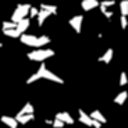
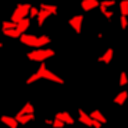
S2 망자 겉모습: 점검 반영 — 가름 셈을 셰이더 그대로(선형 찬 기운·읽히는 가림·주검), 바랜 살갗 색과 가림 경계, 땅 위 동작에서 섞일 때도 면 법선, 후드의 밝은 빨강 천은 어둡게

diff --git a/tools/dead_skin_split.py b/tools/dead_skin_split.py
@@ -1,20 +1,26 @@
-"""Does the dead's skin stay apart from the living's (decision 432)? Body by body, kind by kind.
+"""Does the dead's skin stay apart from the living's (decision 432)? Body by body, look by look.
 
-For each body the dead wear (dead_skin_mask.py SOURCES), the texels its skin mask holds are taken from its
-colour picture and coloured twice, as the shaders colour them under the same light:
+For each body the dead wear (dead_skin_mask.py SOURCES), its colour picture is coloured twice, as the
+shaders colour it under the same light:
   the living: the model grade only (dead_vat.gdshaderinc without WEATHERED, tint 0.5);
-  the dead:   worn_down's gone-off skin (SKIN_OFF by SKIN_GONE, the blotch at its middle), the grade, then
-              the kind's tint as the skin takes it (no brighter than 1).
-How far the skin has gone off is the kind's middle (dead_cast.gd TEAR, b) and its least. Blood, dirt and
-tears are left out (they are judged on the pictures). The values are read from the shader and scripts, so
-this follows them when they change.
+  the dead:   worn_down's gone-off skin (SKIN_OFF by SKIN_GONE, the blotch at its middle) by the skin mask
+              as the GPU reads it (128 x 128, linear filter, repeat, through SKIN_EDGE), the grade, then the look's tint: on the
+              skin no brighter than 1, on the clothes by cloth_state.
+The colours the shader declares source_color are made linear first, as the engine does. Counted: the
+texels the mask reads 0.5 or more at (before SKIN_EDGE). How far the skin has gone off is the kind's middle (dead_cast.gd
+TEAR, b) and its least. Blood, dirt and tears are left out (they are judged on the pictures). The values
+are read from the shader and scripts (a value not found stops the tool), so this follows them.
 
 Pass (coordinator, 10-31): (a) the dead's median saturation <= 0.6 x the living's; (b) the dead's median hue
 at least 20 degrees towards green of the living's and between 60 and 160 (living 0..40 -> dead 60..160).
-Checked: the dead (the crawlers and the corpses are the dead too). The other kinds are printed beside them:
-the newly risen are meant to be near the living, the layered take their cold blue, the frozen their frost.
+Checked: the dead standing and the dead lying (look "corpse", the dead's wear and tear); the crawlers
+are the dead too. The other kinds are printed beside them: the newly risen are meant to be near the
+living, the layered take their cold blue, the frozen their frost.
 
-  python -X utf8 -I tools/dead_skin_split.py <repo>
+--sat-floor S passes (a) also where the dead's saturation is at most S (a body whose living skin the grade
+already leaves nearly grey); 0, the default, is the rule as the coordinator set it.
+
+  python -X utf8 -I tools/dead_skin_split.py <repo> [--sat-floor S]
 """
 import os
 import re
@@ -22,41 +28,56 @@ import sys
 
 import numpy as np
 from PIL import Image
+from scipy import ndimage
 
 sys.path.insert(0, os.path.dirname(os.path.abspath(__file__)))
 from dead_skin_mask import SOURCES  # noqa: E402
 
-CHECKED = ("dead",)
 SAT_RATIO = 0.6
 HUE_TOWARDS_GREEN = 20.0
 HUE_DEAD = (60.0, 160.0)
 LUM = np.array([0.2126, 0.7152, 0.0722])
+# Look drawn -> (the kind whose wear and tear it has, its tint), checked or only printed.
+LOOKS = [("dead", "dead", "dead", True), ("corpse", "dead", "corpse", True), ("clothed", "clothed", "clothed", False),
+         ("fresh", "fresh", "fresh", False), ("frozen", "frozen", "frozen", False)]
 
 
 def vec3(text):
     return np.array([float(v) for v in text.split(",")], dtype=np.float64)
 
 
+def found(pattern, text):
+    got = re.search(pattern, text)
+    if got is None:
+        raise SystemExit("dead_skin_split: not found in the sources: " + pattern)
+    return got
+
+
 def read_values(repo):
     s2 = os.path.join(repo, "s2")
     inc = open(os.path.join(s2, "game/actors/dead_vat.gdshaderinc"), encoding="utf-8").read()
-    skin_off = vec3(re.search(r"const vec3 SKIN_OFF = vec3\(([^)]*)\)", inc).group(1))
-    blotch = float(re.search(r"off \* \(1\.0 - ([0-9.]+) \* n\)", inc).group(1))
-    gone = vec3(re.search(r"const vec2 SKIN_GONE = vec2\(([^)]*)\)", inc).group(1))
-    grade = {
-        "sat": float(re.search(r"uniform float grade_saturation[^=]*= ([0-9.]+)", inc).group(1)),
-        "val": float(re.search(r"uniform float grade_value[^=]*= ([0-9.]+)", inc).group(1)),
-        "cool": vec3(re.search(r"uniform vec3 grade_cool[^=]*= vec3\(([^)]*)\)", inc).group(1)),
-        "mix": float(re.search(r"uniform float grade_cool_mix[^=]*= ([0-9.]+)", inc).group(1)),
+    cool = found(r"uniform vec3 grade_cool([^=]*)= vec3\(([^)]*)\)", inc)
+    v = {
+        "skin_off": vec3(found(r"const vec3 SKIN_OFF = vec3\(([^)]*)\)", inc).group(1)),
+        "blotch": float(found(r"off \* \(1\.0 - ([0-9.]+) \* n\)", inc).group(1)),
+        "gone": vec3(found(r"const vec2 SKIN_GONE = vec2\(([^)]*)\)", inc).group(1)),
+        "edge": vec3(found(r"const vec2 SKIN_EDGE = vec2\(([^)]*)\)", inc).group(1)),
+        "cloth_state": float(found(r"uniform float cloth_state[^=]*= ([0-9.]+)", inc).group(1)),
+        "sat": float(found(r"uniform float grade_saturation[^=]*= ([0-9.]+)", inc).group(1)),
+        "val": float(found(r"uniform float grade_value[^=]*= ([0-9.]+)", inc).group(1)),
+        "cool": to_linear(vec3(cool.group(2))) if "source_color" in cool.group(1) else vec3(cool.group(2)),
+        "mix": float(found(r"uniform float grade_cool_mix[^=]*= ([0-9.]+)", inc).group(1)),
     }
     cast = open(os.path.join(s2, "game/actors/dead_cast.gd"), encoding="utf-8").read()
-    tear = {}
-    for kind, lo, hi in re.findall(r'"(\w+)": \[Vector3\(([^)]*)\), Vector3\(([^)]*)\)\]', cast):
-        tear[kind] = (vec3(lo)[2], vec3(hi)[2])
+    v["tear"] = {k: (vec3(lo)[2], vec3(hi)[2]) for k, lo, hi in
+                 re.findall(r'"(\w+)": \[Vector3\(([^)]*)\), Vector3\(([^)]*)\)\]', cast)}
     zomb = open(os.path.join(s2, "game/actors/zombies.gd"), encoding="utf-8").read()
-    line = re.search(r"const TINTS: Dictionary = \{(.*)\}", zomb).group(1)
-    tints = {k: vec3(v) for k, v in re.findall(r'"(\w+)": Color\(([^)]*)\)', line)}
-    return skin_off, (blotch, gone), grade, tear, tints
+    line = found(r"const TINTS: Dictionary = \{(.*)\}", zomb).group(1)
+    v["tints"] = {k: vec3(c) for k, c in re.findall(r'"(\w+)": Color\(([^)]*)\)', line)}
+    for kind, _tear, tint, _c in LOOKS:
+        if _tear not in v["tear"] or tint not in v["tints"]:
+            raise SystemExit("dead_skin_split: no wear and tear or tint for " + kind)
+    return v
 
 
 def smoothstep(a, b, x):
@@ -73,10 +94,10 @@ def to_srgb(c):
     return np.where(c <= 0.0031308, c * 12.92, 1.055 * c ** (1.0 / 2.4) - 0.055)
 
 
-def model_grade(c, g):
-    v = c.max(axis=1, keepdims=True)
-    out = (v + (c - v) * g["sat"]) * g["val"]
-    return out + (out * g["cool"] - out) * g["mix"]
+def model_grade(c, v):
+    top = c.max(axis=1, keepdims=True)
+    out = (top + (c - top) * v["sat"]) * v["val"]
+    return out + (out * v["cool"] - out) * v["mix"]
 
 
 def sat_hue(c):
@@ -89,35 +110,61 @@ def sat_hue(c):
     return (mx - mn) / np.maximum(mx, 1e-9), h
 
 
-def main():
-    repo = os.path.abspath(sys.argv[1] if len(sys.argv) > 1 else ".")
-    skin_off, (blotch, gone), grade, tear, tints = read_values(repo)
-    print("SKIN_OFF %s SKIN_GONE %s blotch %.2f grade sat %.2f val %.2f" % (np.round(skin_off, 3).tolist(), gone[:2].tolist(), blotch, grade["sat"], grade["val"]))
-    failed = []
+def mask_as_read(mask_png, size):
+    """The mask's red at each picture texel's centre: linear filter, repeat (the shader's skin_tex)."""
+    m = np.asarray(Image.open(mask_png).convert("RGB"), dtype=np.float64)[..., 0] / 255.0
+    n = m.shape[0]
+    centres = (np.arange(size) + 0.5) / size * n - 0.5
+    yy, xx = np.meshgrid(centres, centres, indexing="ij")
+    return ndimage.map_coordinates(m, [yy, xx], order=1, mode="grid-wrap")
+
+
+def measure(repo, v, sat_floor=0.0):
+    rows, failed = [], []
     for body in SOURCES:
         folder = os.path.join(repo, "s2/models/people", body)
         pic = np.asarray(Image.open(os.path.join(folder, "albedo.png")).convert("RGB"), dtype=np.float64) / 255.0
-        mask = np.asarray(Image.open(os.path.join(folder, "skin_mask.png")).convert("L").resize(pic.shape[1::-1], Image.NEAREST)) > 127
-        lin = to_linear(pic[mask])
-        live_s, live_h = sat_hue(to_srgb(model_grade(lin, grade)))
+        m_all = mask_as_read(os.path.join(folder, "skin_mask.png"), pic.shape[0])
+        inside = m_all >= 0.5
+        lin = to_linear(pic[inside])
+        e0, e1 = v["edge"][0], v["edge"][1]
+        u = np.clip((m_all[inside] - e0) / (e1 - e0), 0.0, 1.0)
+        m = (u * u * (3.0 - 2.0 * u))[:, None]
+        live_s, live_h = sat_hue(to_srgb(model_grade(lin, v)))
         ls, lh = float(np.median(live_s)), float(np.median(live_h))
         light = (lin @ LUM)[:, None]
         cells = []
-        for kind in ("dead", "clothed", "fresh", "frozen"):
-            lo, hi = tear[kind]
-            state = tints[kind] / 0.5
+        for look, kind, tint, checked in LOOKS:
+            lo, hi = v["tear"][kind]
+            state = v["tints"][tint] / 0.5
             on_skin = state / max(1.0, float(state @ LUM))
+            on_cloth = 1.0 + (state - 1.0) * v["cloth_state"]
             for which, b in (("mid", (lo + hi) / 2.0), ("least", lo)):
-                off = light * skin_off * (1.0 - blotch * 0.5)
-                c = model_grade(lin + (off - lin) * smoothstep(gone[0], gone[1], b), grade) * on_skin
+                off = light * v["skin_off"] * (1.0 - v["blotch"] * 0.5)
+                worn = lin + (off - lin) * smoothstep(v["gone"][0], v["gone"][1], b) * m
+                c = model_grade(worn, v) * (on_cloth + (on_skin - on_cloth) * m)
                 s, h = sat_hue(to_srgb(c))
                 ds, dh = float(np.median(s)), float(np.median(h))
-                ok = ds <= ls * SAT_RATIO and dh - lh >= HUE_TOWARDS_GREEN and HUE_DEAD[0] <= dh <= HUE_DEAD[1]
-                if kind in CHECKED and not ok:
-                    failed.append("%s %s %s" % (body, kind, which))
-                cells.append("%s/%s s%.2f h%.0f %s" % (kind, which, ds / max(ls, 1e-9), dh, "ok" if ok else ("FAIL" if kind in CHECKED else "-")))
-        print("%-20s n=%5d living s%.3f h%5.1f | %s" % (body, int(mask.sum()), ls, lh, " | ".join(cells)))
-    print("SPLIT %s" % ("PASS" if not failed else "FAIL " + ", ".join(failed)))
+                ok = ds <= max(ls * SAT_RATIO, sat_floor) and dh - lh >= HUE_TOWARDS_GREEN and HUE_DEAD[0] <= dh <= HUE_DEAD[1]
+                if checked and not ok:
+                    failed.append("%s %s %s" % (body, look, which))
+                cells.append((look, which, ds / max(ls, 1e-9), dh, ok, checked, ds))
+        rows.append((body, int(inside.sum()), float((m_all > 0.02).sum()), ls, lh, cells))
+    return rows, failed
+
+
+def main():
+    repo = os.path.abspath(sys.argv[1] if len(sys.argv) > 1 and not sys.argv[1].startswith("--") else ".")
+    v = read_values(repo)
+    print("SKIN_OFF %s SKIN_GONE %s blotch %.2f grade sat %.2f val %.2f cool(linear) %s" % (
+        np.round(v["skin_off"], 3).tolist(), v["gone"][:2].tolist(), v["blotch"], v["sat"], v["val"], np.round(v["cool"], 3).tolist()))
+    floor = float(sys.argv[sys.argv.index("--sat-floor") + 1]) if "--sat-floor" in sys.argv else 0.0
+    rows, failed = measure(repo, v, floor)
+    for body, n, touched, ls, lh, cells in rows:
+        text = " | ".join("%s/%s s%.2f(%.3f) h%.0f %s" % (look, which, sr, ds, dh, "ok" if ok else ("FAIL" if checked else "-"))
+                          for look, which, sr, dh, ok, checked, ds in cells)
+        print("%-20s n=%5d (of %5d touched) living s%.3f h%5.1f | %s" % (body, n, touched, ls, lh, text))
+    print("SPLIT %s%s" % ("PASS" if not failed else "FAIL " + ", ".join(failed), " (sat floor %.3f)" % floor if floor else ""))
     return 1 if failed else 0
 
 

diff --git a/tools/dead_skin_mask.py b/tools/dead_skin_mask.py
@@ -2,7 +2,9 @@
 
 The dead's look (dead_vat.gdshaderinc) turns the skin grey-green and puts the state's tint on it; the
 clothes keep their own colour. Which texels are skin is not guessed in the shader (a warm-colour test
-also takes a red tracksuit or a brown coat): it is this mask, one channel, beside each body's albedo.
+also takes a red tracksuit or a brown coat): it is this mask beside each body's albedo, in red. Green
+marks the head's cloth that is a light red (a hood): the model grade presses such a red towards pink,
+which on the dead reads as a bare living head, so the shader darkens it (HEAD_CLOTH_DIM).
 
 How: from the body's rigged source (the glb its build folder was baked from, byte-checked when the
 garment shells were baked), each triangle whose three corners are mostly the head or neck, the hands, or
@@ -72,10 +74,16 @@ def accessor(js, bin_, i):
 
 def regions_of(glb):
     js, bin_ = read_glb(glb)
+    # One mesh, one primitive, one skin, its UVs inside the picture (no repeat): what this reads. A body
+    # made otherwise stops the tool rather than giving a mask drawn from the wrong part.
+    if len(js["meshes"]) != 1 or len(js["meshes"][0]["primitives"]) != 1 or len(js.get("skins", [])) != 1:
+        raise SystemExit("dead_skin_mask: %s is not one skinned mesh of one primitive" % glb)
     names = [js["nodes"][j]["name"] for j in js["skins"][0]["joints"]]
     prim = js["meshes"][0]["primitives"][0]
     at = prim["attributes"]
     uv = accessor(js, bin_, at["TEXCOORD_0"])
+    if uv.min() < -0.001 or uv.max() > 1.001:
+        raise SystemExit("dead_skin_mask: %s has UVs outside the picture" % glb)
     joints = accessor(js, bin_, at["JOINTS_0"]).astype(int)
     weights = accessor(js, bin_, at["WEIGHTS_0"])
     idx = accessor(js, bin_, prim["indices"]).astype(int).ravel()
@@ -106,6 +114,17 @@ def skin_colour(rgb, strict):
     return ((h <= 0.12) | (h >= 0.94)) & (s >= 0.08) & (s <= 0.70) & (v >= 0.25)
 
 
+def light_red(rgb):
+    hsv = np.asarray(Image.fromarray(rgb).convert("HSV"), dtype=np.float32) / 255.0
+    h, s, v = hsv[..., 0], hsv[..., 1], hsv[..., 2]
+    return ((h <= 0.056) | (h >= 0.917)) & (s >= 0.5) & (v >= 0.6)
+
+
+def soft(mask):
+    small = Image.fromarray((mask * 255).astype(np.uint8)).resize((SIZE, SIZE), Image.BILINEAR)
+    return np.clip(ndimage.uniform_filter(np.asarray(small, dtype=np.float32), size=3), 0, 255).astype(np.uint8)
+
+
 def main():
     repo = sys.argv[1]
     rigs = sys.argv[sys.argv.index("--rigs") + 1]
@@ -118,11 +137,10 @@ def main():
         same = float(np.abs(np.asarray(src, dtype=np.float32) - rgb.astype(np.float32)).mean()) if src is not None else -1.0
         skin = (masks["head"] | masks["hand"]) & skin_colour(rgb, False) | masks["forearm"] & skin_colour(rgb, True)
         skin = ndimage.binary_opening(skin, iterations=1)
-        small = Image.fromarray((skin * 255).astype(np.uint8)).resize((SIZE, SIZE), Image.BILINEAR)
-        soft = ndimage.uniform_filter(np.asarray(small, dtype=np.float32), size=3)
-        out = Image.fromarray(np.clip(soft, 0, 255).astype(np.uint8), "L")
-        out.save(os.path.join(d, "skin_mask.png"))
-        report[body] = {"skin": round(float(skin.mean()), 4), "head": round(float(masks["head"].mean()), 4),
+        hood = ndimage.binary_opening(masks["head"] & ~skin_colour(rgb, False) & light_red(rgb), iterations=1)
+        planes = [soft(skin), soft(hood), np.zeros((SIZE, SIZE), np.uint8)]
+        Image.fromarray(np.stack(planes, axis=-1), "RGB").save(os.path.join(d, "skin_mask.png"))
+        report[body] = {"skin": round(float(skin.mean()), 4), "hood": round(float(hood.mean()), 4), "head": round(float(masks["head"].mean()), 4),
                         "hand": round(float(masks["hand"].mean()), 4), "picture_vs_rig": round(same, 2)}
         over = rgb.astype(np.float32)
         for name, colour in (("head", (255, 210, 0)), ("hand", (0, 160, 255)), ("forearm", (200, 0, 255))):
